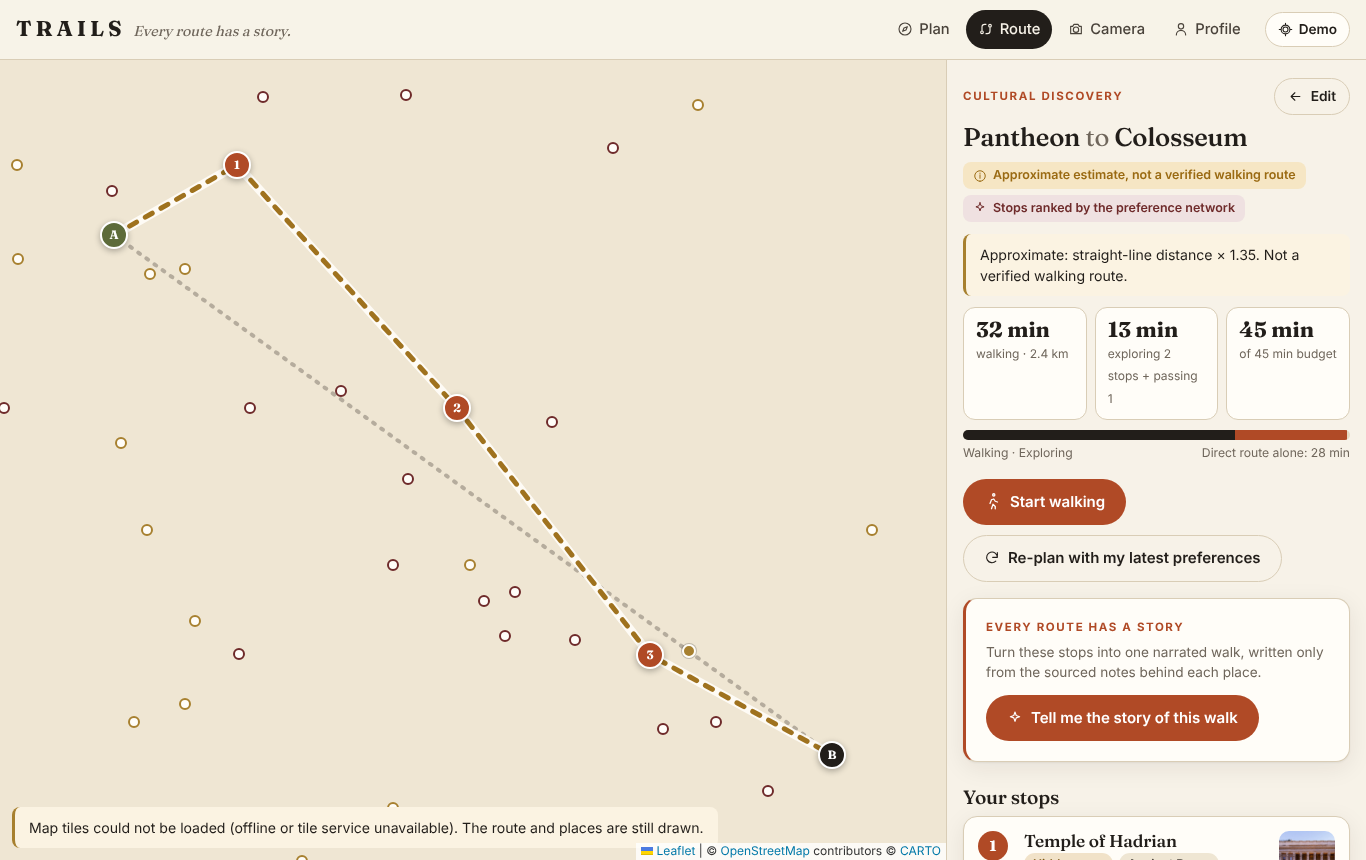
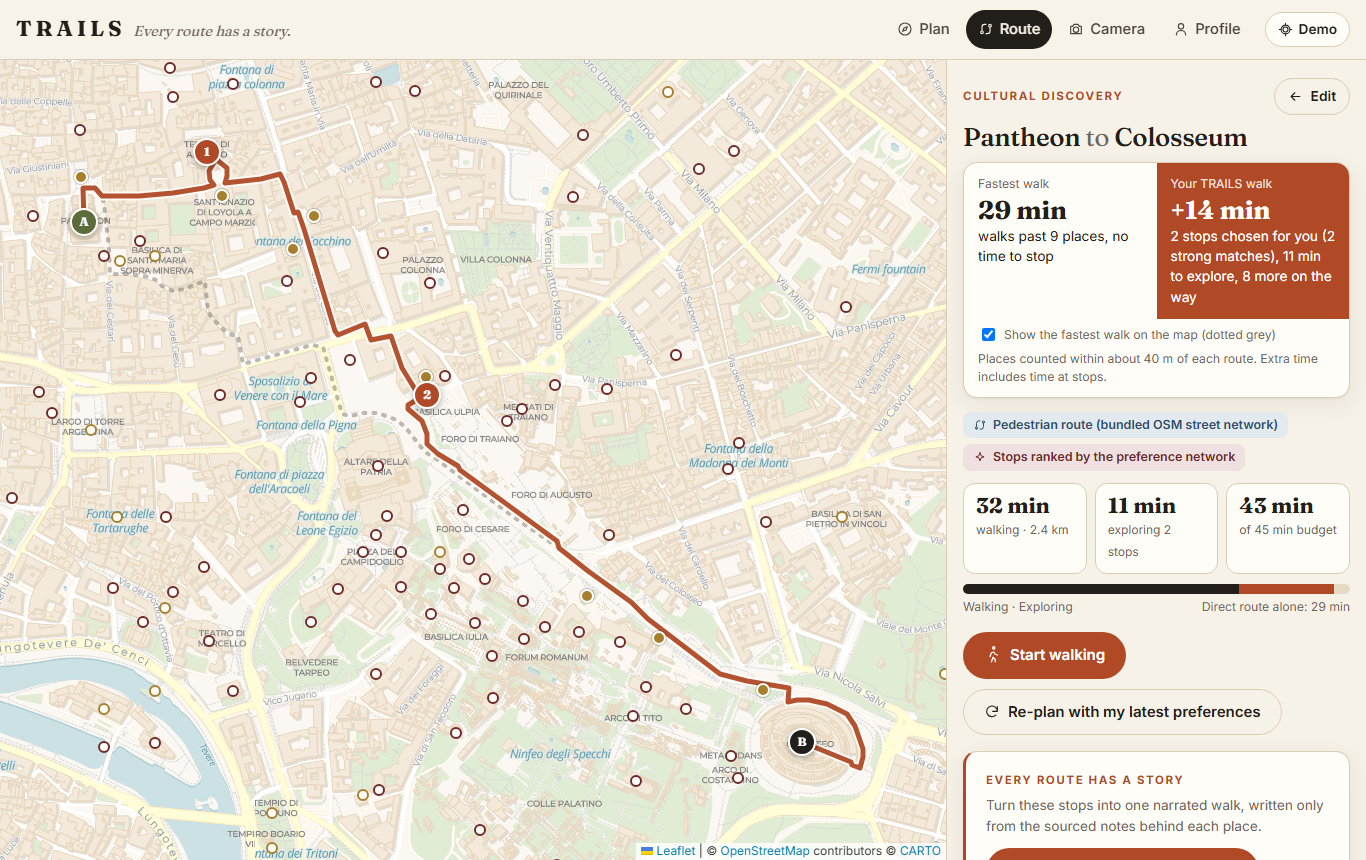
Load MediaPipe on demand; fresh screenshots; bring REPORT up to date
- vision/embedder: import @mediapipe/tasks-vision on first camera use, so
  the main bundle no longer carries it (-154 kB, -46 kB gzip)
- docs/screenshots: re-shot on 18 Oct with live map tiles and the real
  offline story (the old story shots showed a fake test model's output)
- REPORT/README: public repo, Pages workflow, AMD runbook, 18 Oct smoke run

diff --git a/src/lib/vision/embedder.ts b/src/lib/vision/embedder.ts
@@ -1,6 +1,7 @@
 // Image embeddings with MediaPipe Tasks (MobileNetV3 image embedder, Apache-2.0), run fully in the browser.
 // The wasm runtime and model are served from this app (public/), so no third-party CDN is needed.
-import { FilesetResolver, ImageEmbedder } from '@mediapipe/tasks-vision'
+// The library is imported on first use, so it stays out of the main bundle until the camera is opened.
+import type { ImageEmbedder } from '@mediapipe/tasks-vision'
 
 const BASE = import.meta.env.BASE_URL
 export const EMBED_MODEL = (import.meta.env.VITE_EMBED_MODEL as string | undefined) || 'mobilenet_v3_small'
@@ -10,6 +11,7 @@ let embedderP: Promise<ImageEmbedder> | null = null
 export function loadEmbedder(model = EMBED_MODEL): Promise<ImageEmbedder> {
   if (!embedderP) {
     embedderP = (async () => {
+      const { FilesetResolver, ImageEmbedder } = await import('@mediapipe/tasks-vision')
       const fileset = await FilesetResolver.forVisionTasks(`${new URL(BASE, location.href).href}mediapipe/wasm`)
       return ImageEmbedder.createFromOptions(fileset, {
         baseOptions: { modelAssetPath: `${BASE}models/${model}.tflite`, delegate: 'CPU' },

diff --git a/docs/REPORT.md b/docs/REPORT.md
@@ -50,7 +50,8 @@ npm run smoke                    # Playwright end-to-end (needs a running dev/pr
 
 ## 5. Build
 
-`npm run build` → `dist/` (static). Main JS bundle 831 kB (235 kB gzip); MediaPipe wasm, models,
+`npm run build` → `dist/` (static). Main JS bundle 912 kB (237 kB gzip, about half of it the bundled place dataset);
+the MediaPipe library (154 kB) loads only when the camera opens; MediaPipe wasm, models,
 photos and data are separate static files.
 
 ## 6. Training
@@ -98,6 +99,13 @@ need internet.
   also checked in the browser with no model configured.
   With the real walking matrix, Pantheon → Colosseum in 45 min gave: Ancient preset = Temple of
   Hadrian + Trajan's Column; Renaissance preset = Piazza della Rotonda + Trajan's Column.
+* 18 Oct, re-run on Windows 11 / Node 24 with internet access: smoke test **10/10 checks on desktop
+  and mobile** against (a) the production build served by the story server with a stand-in model,
+  (b) the GitHub Pages build under `/trails/` with no story server (offline story fallback), and
+  (c) `vite preview` with live CARTO tiles. Screenshots in `docs/screenshots` are from run (c):
+  real map tiles, offline story. Ancient preset = Temple of Hadrian + Trajan's Column; Renaissance
+  preset = Sant'Ignazio + San Marcello al Corso + Santa Maria di Loreto (the dataset grew to 269
+  places since the first run).
 * Preference MLP, held-out **synthetic** users: AUC 0.740 (rule baseline 0.709, popularity 0.504,
   simulator ceiling 0.869); NDCG@5 0.874 (rule 0.857, popularity 0.594, ceiling 1.000).
   Export parity: torch vs JSON 1.25e-6, torch vs ONNX 6e-8.
@@ -137,10 +145,12 @@ landmark photos or a styled placeholder.
 ## 15. Deployment
 
 Any HTTPS static host: `npm run build`, publish `dist/`. For a sub-path, `npx vite build --base=/trails/`.
+`.github/workflows/pages.yml` runs the unit tests, builds for the repository sub-path with keyless
+OpenStreetMap tiles and publishes to GitHub Pages on every push to `main`.
 
 ## 16. Next steps
 
-1. Run Gemma on AMD Developer Cloud for the storyteller and record latency and a few sample stories.
+1. Run the storyteller on AMD Developer Cloud and record latency and sample stories (scripts and steps ready: [AMD_RUNBOOK.md](AMD_RUNBOOK.md)).
 2. Refresh the Rome street graph periodically (`scripts/fetch_more_places.py --skip wikidata wiki images`, then `node scripts/build_walk_graph.mjs`).
 3. Run `ml/train.py` and `ml/benchmark.py` on AMD Developer Cloud and commit the GPU benchmark.
 4. Field-test GPS navigation and the live camera on phones in Rome.
@@ -154,9 +164,9 @@ Checked against the official page (https://lablab.ai/event/amd-developer-hackath
 
 | Requirement | Status |
 | --- | --- |
-| "AMD technology should power a meaningful part" and "must be part of the working product shown to the judges" | **Not met yet, path ready.** (1) Serve Gemma with vLLM on an AMD Instinct GPU and point the storyteller at it ([STORYTELLER.md](STORYTELLER.md)); the app badge then shows the model running on AMD during the demo. (2) Run `ml/train.py --device gpu` and `ml/benchmark.py` on AMD Developer Cloud and show the printed device. |
-| Public GitHub repository | Not done (the project lives in your local folder by request) |
-| Demo application URL | Not done; any HTTPS static host works (section 15) |
-| Cover image, video, slides, descriptions | Not done |
+| "AMD technology should power a meaningful part" and "must be part of the working product shown to the judges" | **Not met yet, path ready** (waiting for AMD Developer Cloud credits). (1) `amd/serve_llm.sh` serves the storyteller model with vLLM on an AMD Instinct GPU; `npm run story:eval` records latency and grounding; the app badge then shows the model running on AMD during the demo. (2) `amd/train_rocm.sh` trains and benchmarks the preference model on the GPU. Steps: [AMD_RUNBOOK.md](AMD_RUNBOOK.md). |
+| Public GitHub repository | Done: https://github.com/LexaPankov/trails |
+| Demo application URL | GitHub Pages workflow ready (section 15) |
+| Cover image, video, slides, descriptions | Cover, slides and texts prepared by the team (outside the repo); video after the AMD run |
 | "Submissions must be original and MIT-compliant" | Code is MIT; third-party assets are CC BY / CC BY-SA / CC0 / PD / Apache 2.0 / OFL with credits |
 | Gemma (Google prize, optional) | Storyteller is built for Gemma on AMD; qualifies once it is actually run |

diff --git a/README.md b/README.md
@@ -27,7 +27,7 @@ Built for the AMD Developer Hackathon: ACT III (lablab.ai).
 | Preference learning from like / save / visited / read more / skip / not-for-me, editable and resettable | Implemented, unit-tested |
 | Route optimiser (fastest / cultural discovery / maximum history) with hard time budget | Implemented, unit-tested (deterministic, budget respected) |
 | Pedestrian routing: Valhalla → OSRM foot → labelled estimate, plus TRAILS' own A* router on a bundled OSM graph | Implemented. Valhalla parsing is tested against a **recorded real response**; live calls could not be made from the build sandbox. The Rome street graph (65,014 nodes from OpenStreetMap) is bundled, so routes follow real streets offline; browser-tested. |
-| Map (Leaflet + OpenStreetMap/CARTO tiles), route line, stops, alternatives | Implemented; tiles could not load in the sandbox, so the offline fallback was exercised |
+| Map (Leaflet + OpenStreetMap/CARTO tiles), route line, stops, alternatives | Implemented; browser-tested with live CARTO tiles (18 Oct) and with the offline fallback when tiles fail |
 | Navigation: next instruction, next stop, remaining distance/time, GPS with consent or simulated walk | Implemented; simulated walk browser-tested; real GPS **not field-tested** |
 | Camera recognition: live camera, held-out demo photos, photo upload, unknown state, 2D label overlay | Implemented; accuracy measured on held-out photos (below); live camera **not tested on a phone** |
 | Place pages: image + licence, periods, themes, then & now, history, sources, related places | Implemented |
